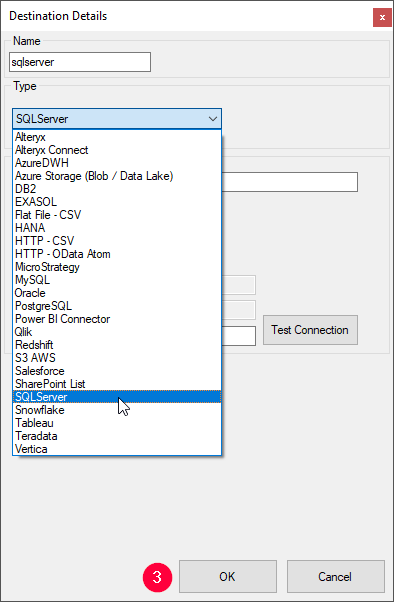
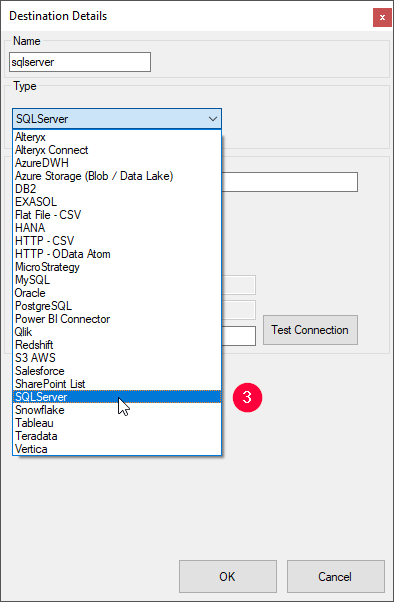
xu; gst

Changed region(s): [[0.5787, 0.6279, 0.6701, 0.6877], [0.3655, 0.9269, 0.4569, 0.9867]]

diff --git a/content/_en/xtract-universal/getting-started-table/load-an-extraction-into_database.md b/content/_en/xtract-universal/getting-started-table/load-an-extraction-into_database.md
@@ -24,10 +24,10 @@ To load an extraction, Microsoft SQL Server destination needs to be created and 
 
 3. Click **[Add]** (2) to add a new destination.
 
-4. Fill in a **Name**, select **SQLServer** from the **Type** list and click **[OK]** (3).
+4. Fill in a **Name**, select **SQLServer** from the **Type** (3) list.
 ![Select-Destination-Type](/img/content/destination_details_sqlserver.png){:class="img-responsive"}
 
-5. In the section "Connection", fill in the fields **Data Source, Username** and **Password** with the correspondent values. Data source is the name of the Microsoft SQL Server.
+5. In the section "Connection", fill in the fields **Server Name** and **Database Name**. 
 6. Click **[Test Connection]** (4) to check the connection to the  database.
 ![Test-Connection-Successful](/img/content/sqlserver_destination-details.png){:class="img-responsive"}
 
